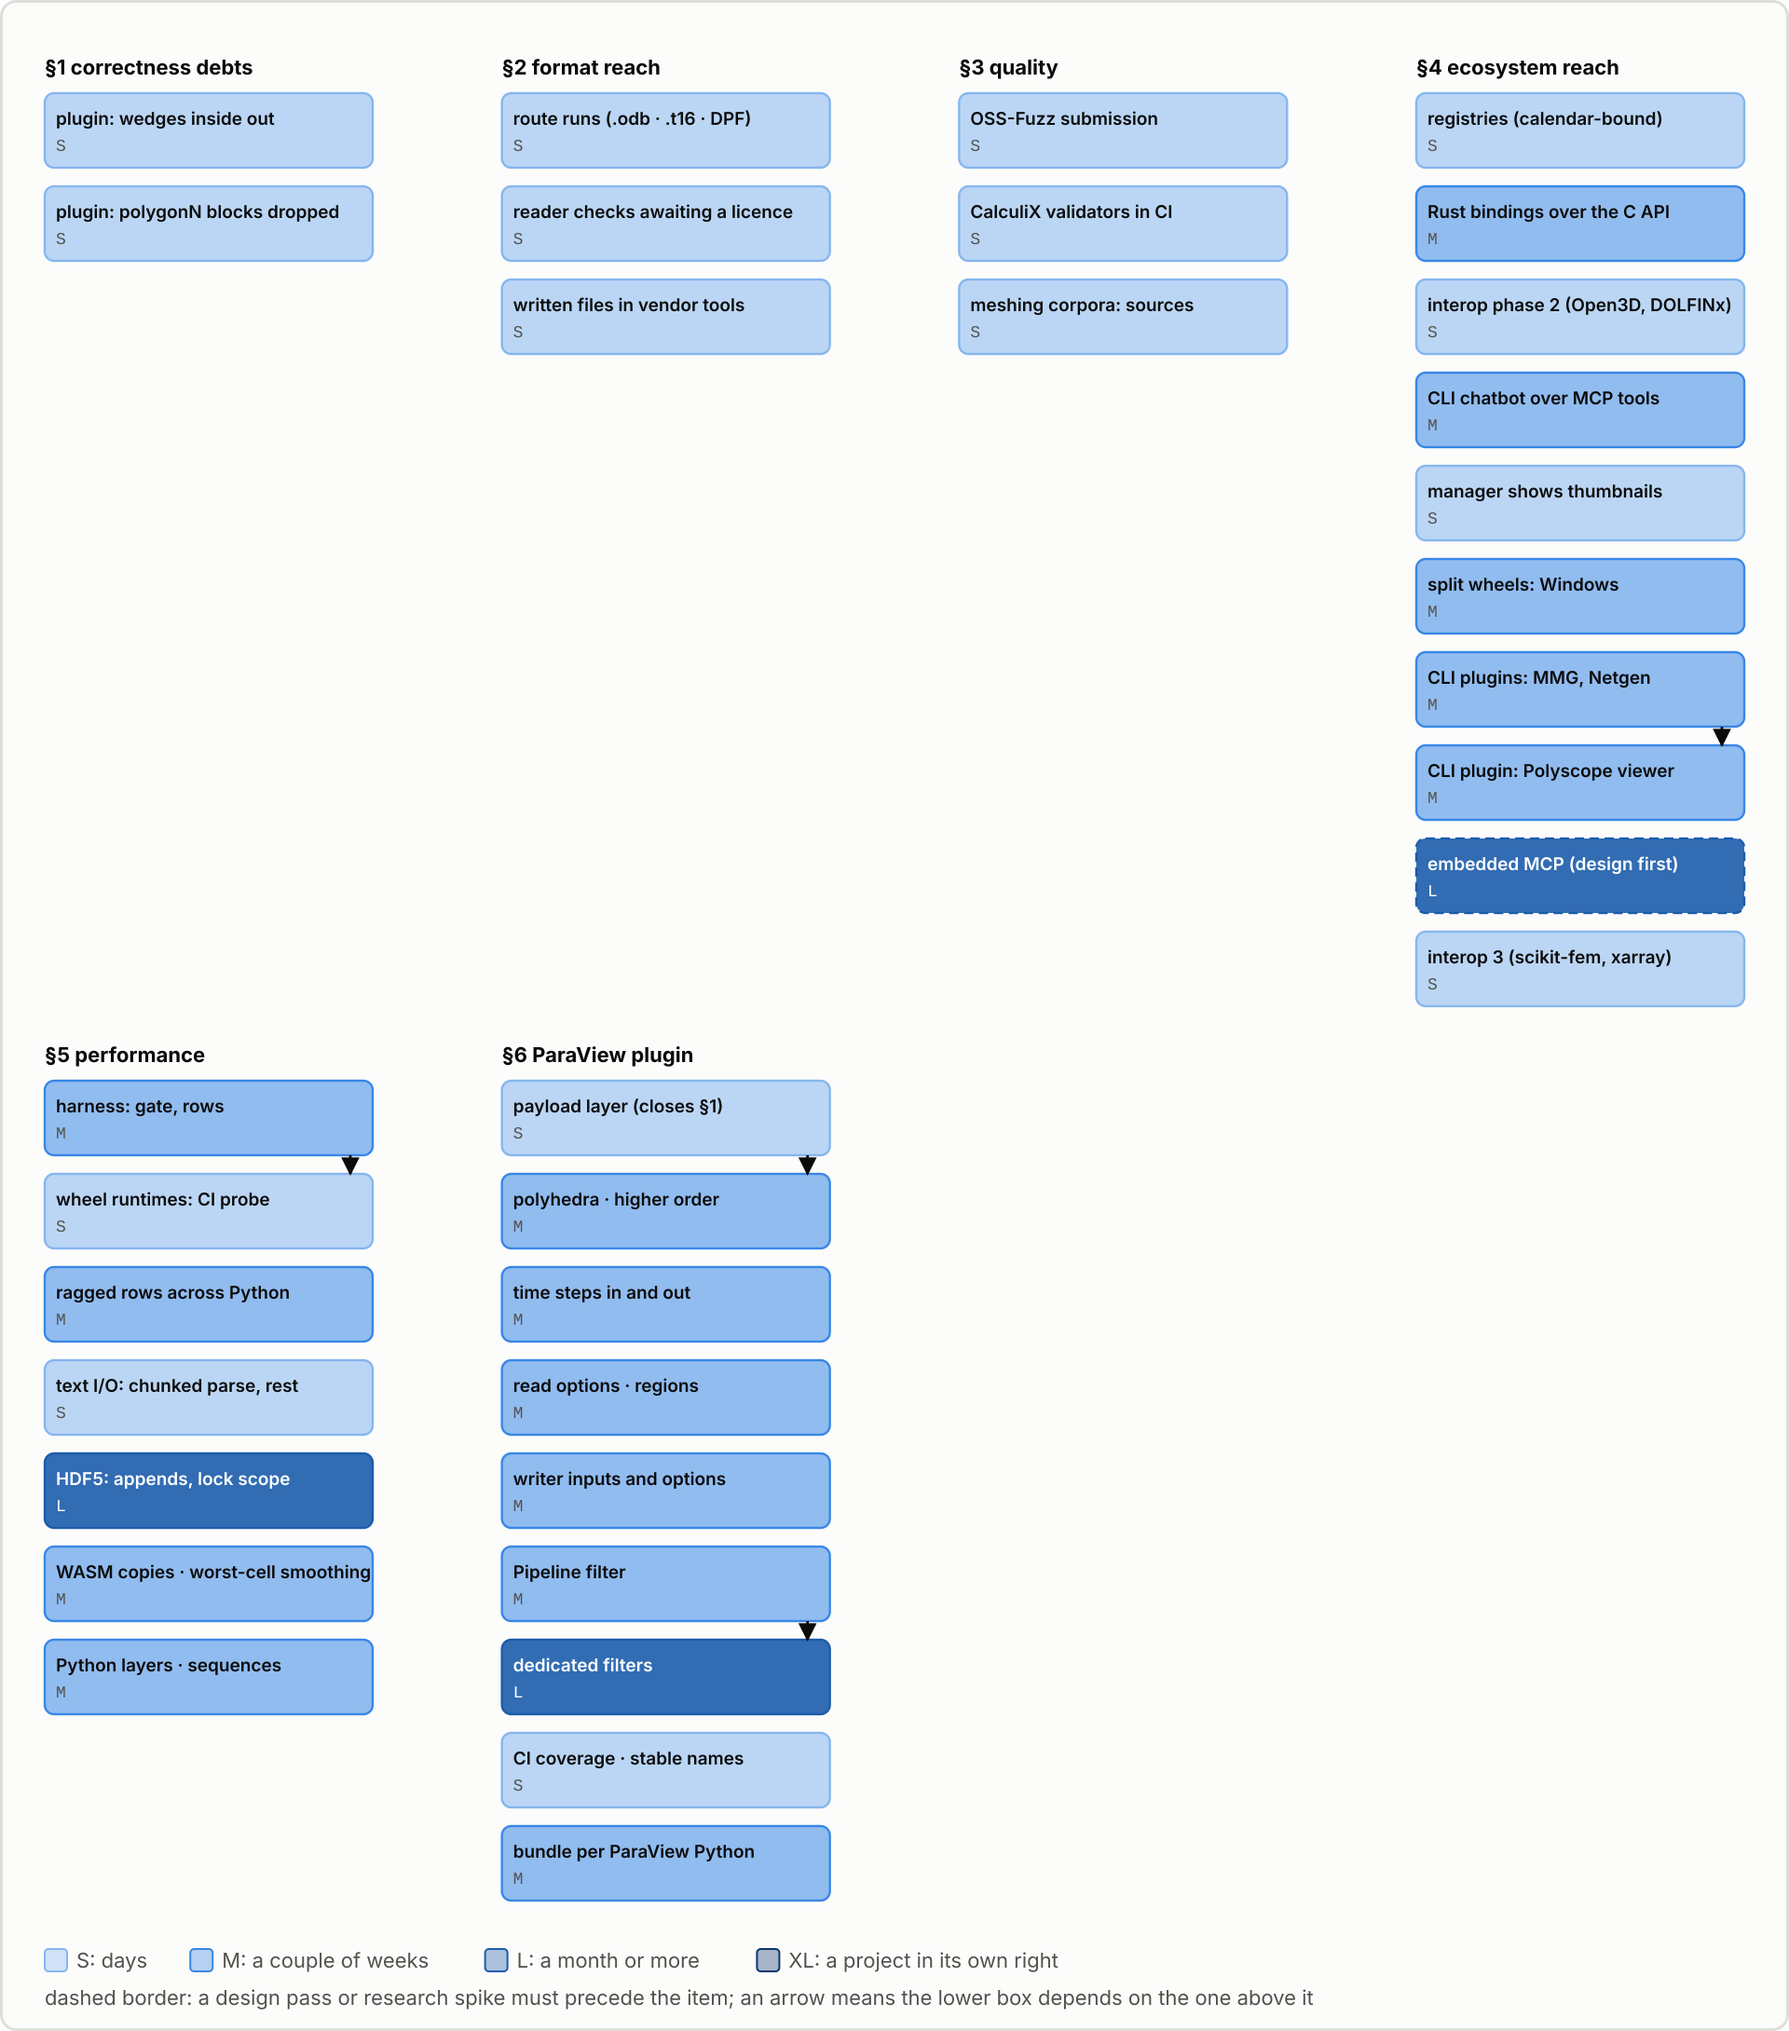
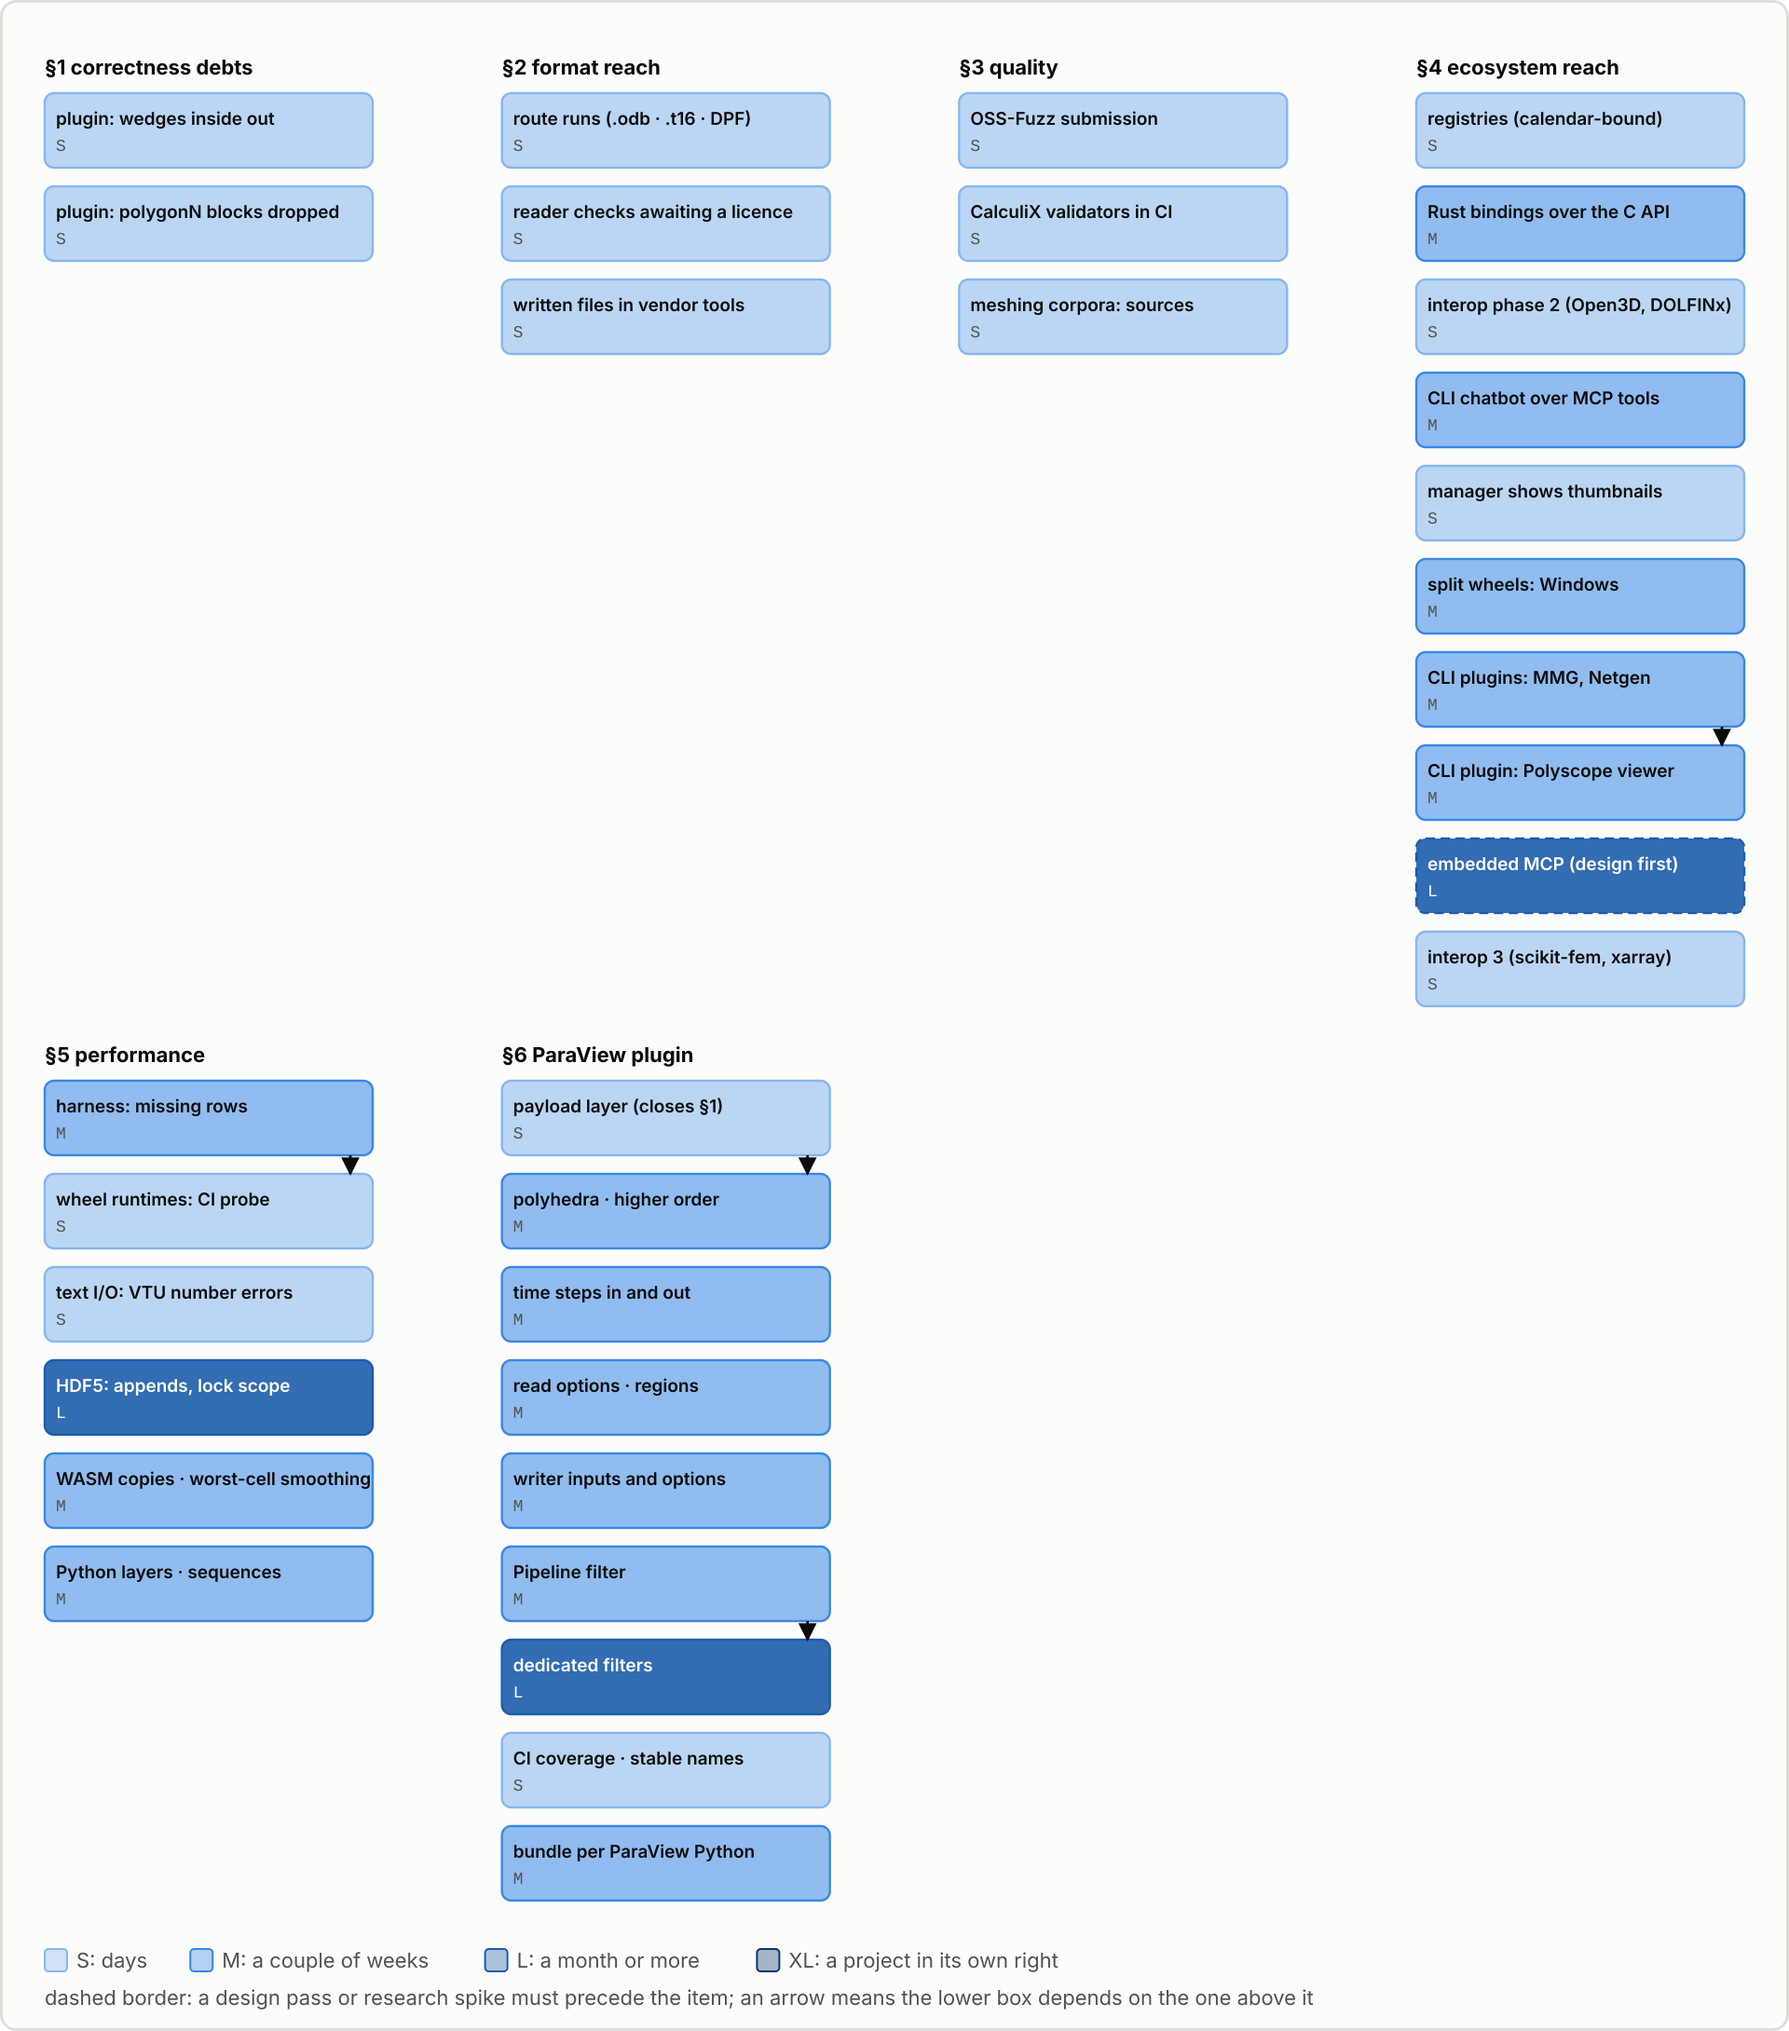
docs: regenerate the roadmap map for §5's remaining items
Claude-Session: https://claude.ai/code/session_01DnyVZCXAV6WqfQQSefT4bd

Changed region(s): [[0.0, 0.6239, 0.2188, 0.8422], [0.0938, 0.5303, 0.125, 0.5615]]

diff --git a/doc/diagrams/figures/flows.py b/doc/diagrams/figures/flows.py
@@ -1057,10 +1057,9 @@ def roadmap_map():
         (
             "§5 performance",
             [
-                ("harness: gate, rows", "M"),
+                ("harness: missing rows", "M"),
                 ("wheel runtimes: CI probe", "S"),
-                ("ragged rows across Python", "M"),
-                ("text I/O: chunked parse, rest", "S"),
+                ("text I/O: VTU number errors", "S"),
                 ("HDF5: appends, lock scope", "L"),
                 ("WASM copies · worst-cell smoothing", "M"),
                 ("Python layers · sequences", "M"),
